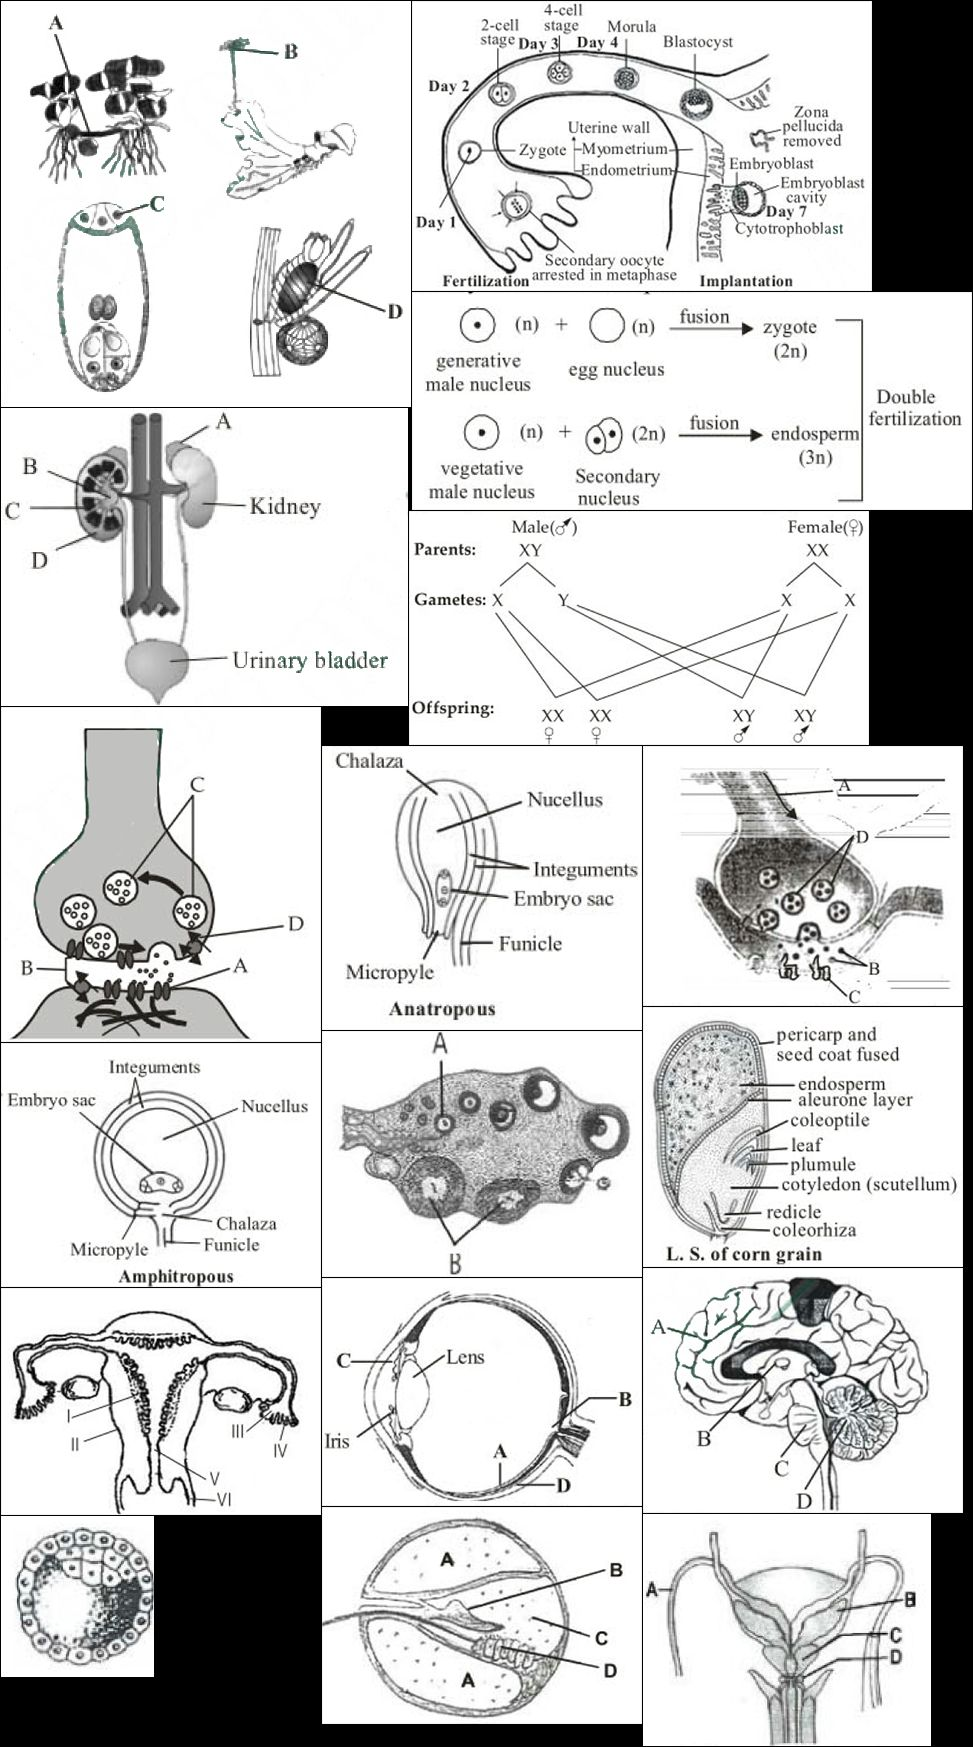
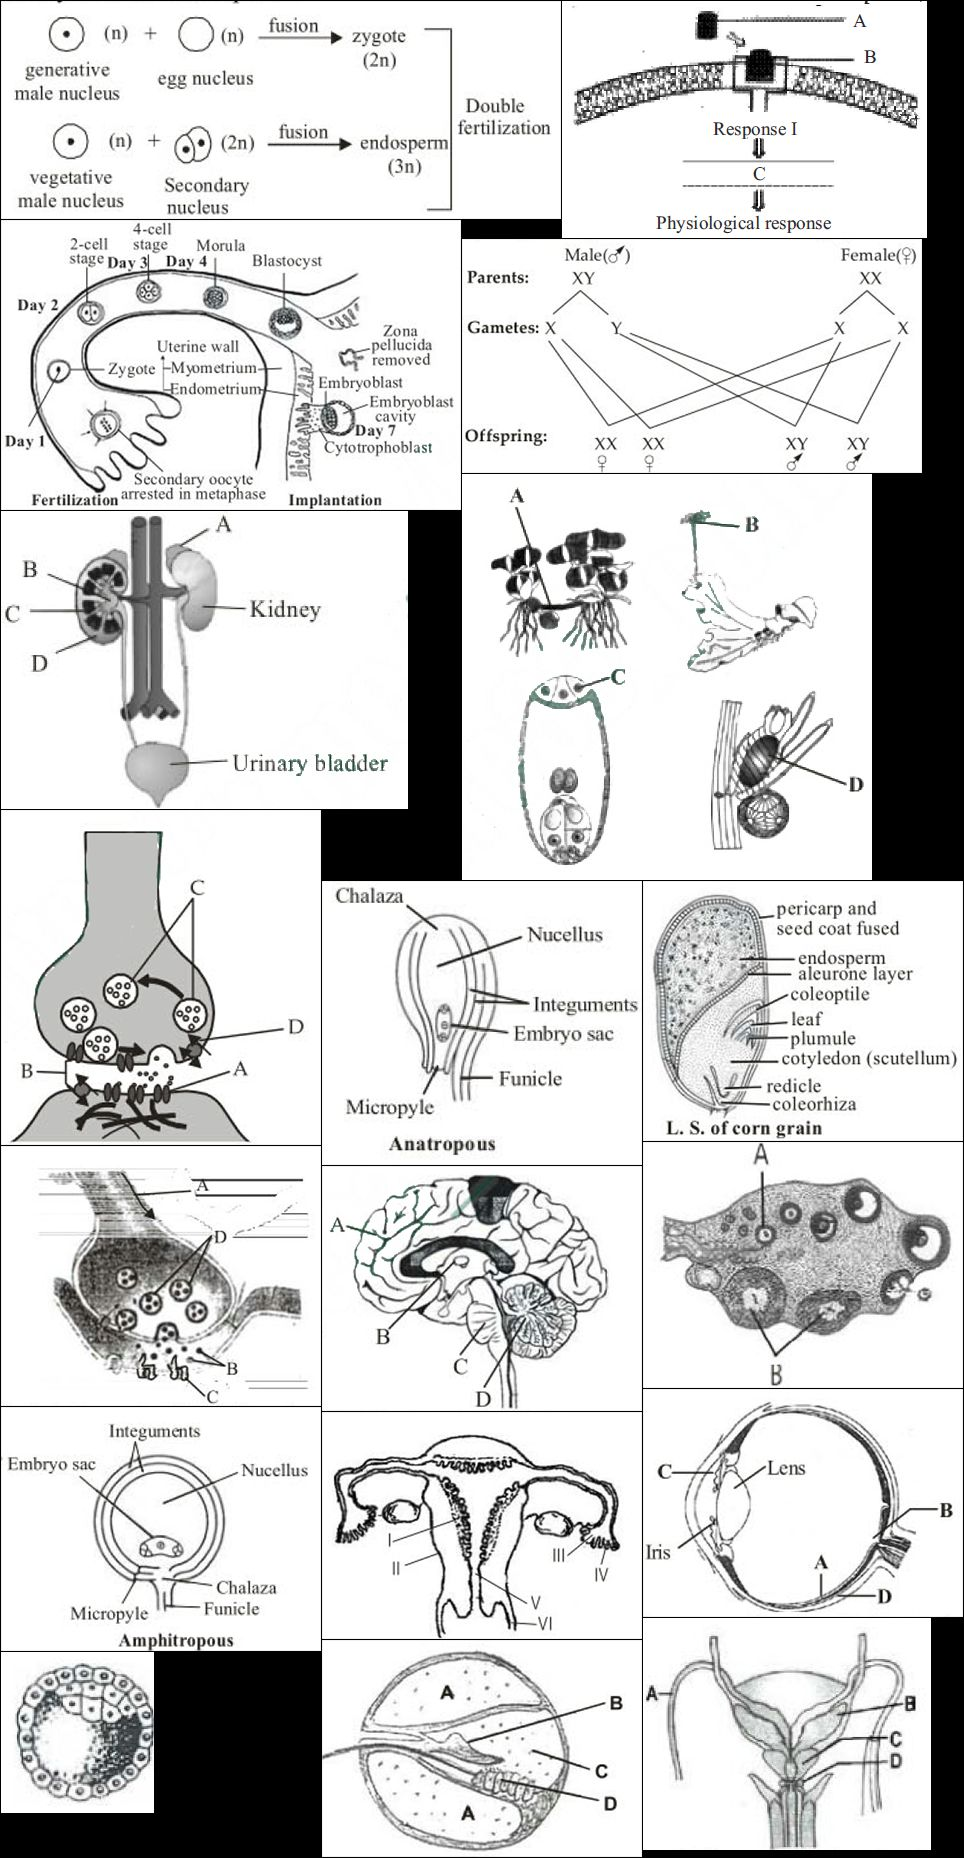
Fixed.

diff --git a/img/medical/neet/bgchap/biology_ch_21_25.css b/img/medical/neet/bgchap/biology_ch_21_25.css
@@ -8,55 +8,58 @@ Responsive: <div class="yourspritesname"></div>
 
 
 .nt_bg_chem_coordin_14 {max-width:407px; max-height:298px; }
-.nt_bg_chem_coordin_14::after {content: '\00a0';display: inline-block; width:407px; height:298px; background-position: 0.17667844522968199% 28.15734989648033%;background-size: 239.06633906633905% 586.2416107382551%;background-image: url(biology_ch_21_25.jpg);padding: 0; }
+.nt_bg_chem_coordin_14::after {content: '\00a0';display: inline-block; width:407px; height:298px; background-position: 0.17953321364452424% 32.756410256410255%;background-size: 236.85503685503684% 623.489932885906%;background-image: url(biology_ch_21_25.jpg);padding: 0; }
 div.nt_bg_chem_coordin_14::after {max-width:407px; width:100%;height:0;padding: 0 0 73.21867321867322% 0;}
+.nt_bg_chem_coordin_2019_1 {max-width:365px; max-height:237px; }
+.nt_bg_chem_coordin_2019_1::after {content: '\00a0';display: inline-block; width:365px; height:237px; background-position: 93.82303839732889% 0.061690314620604564%;background-size: 264.1095890410959% 783.9662447257384%;background-image: url(biology_ch_21_25.jpg);padding: 0; }
+div.nt_bg_chem_coordin_2019_1::after {max-width:365px; width:100%;height:0;padding: 0 0 64.93150684931507% 0;}
 .nt_bg_human_repro_23 {max-width:320px; max-height:246px; }
-.nt_bg_human_repro_23::after {content: '\00a0';display: inline-block; width:320px; height:246px; background-position: 49.31087289433384% 68.68754163890739%;background-size: 304.0625% 710.1626016260162%;background-image: url(biology_ch_21_25.jpg);padding: 0; }
+.nt_bg_human_repro_23::after {content: '\00a0';display: inline-block; width:320px; height:246px; background-position: 99.84472049689441% 70.84367245657569%;background-size: 301.25% 755.2845528455284%;background-image: url(biology_ch_21_25.jpg);padding: 0; }
 div.nt_bg_human_repro_23::after {max-width:320px; width:100%;height:0;padding: 0 0 76.875% 0;}
 .nt_bg_human_repro_24_sol {max-width:460px; max-height:234px; }
-.nt_bg_human_repro_24_sol::after {content: '\00a0';display: inline-block; width:460px; height:234px; background-position: 79.72709551656921% 33.773959021810974%;background-size: 211.52173913043478% 746.5811965811965%;background-image: url(biology_ch_21_25.jpg);padding: 0; }
+.nt_bg_human_repro_24_sol::after {content: '\00a0';display: inline-block; width:460px; height:234px; background-position: 91.66666666666667% 14.716748768472906%;background-size: 209.56521739130434% 794.017094017094%;background-image: url(biology_ch_21_25.jpg);padding: 0; }
 div.nt_bg_human_repro_24_sol::after {max-width:460px; width:100%;height:0;padding: 0 0 50.869565217391305% 0;}
 .nt_bg_human_repro_30 {max-width:153px; max-height:161px; }
-.nt_bg_human_repro_30::after {content: '\00a0';display: inline-block; width:153px; height:161px; background-position: 0.12195121951219512% 95.58638083228247%;background-size: 635.9477124183006% 1085.0931677018634%;background-image: url(biology_ch_21_25.jpg);padding: 0; }
+.nt_bg_human_repro_30::after {content: '\00a0';display: inline-block; width:153px; height:161px; background-position: 0.12330456226880394% 97.34826163818504%;background-size: 630.0653594771242% 1154.0372670807453%;background-image: url(biology_ch_21_25.jpg);padding: 0; }
 div.nt_bg_human_repro_30::after {max-width:153px; width:100%;height:0;padding: 0 0 105.22875816993464% 0;}
 .nt_bg_human_repro_30_sol {max-width:460px; max-height:290px; }
-.nt_bg_human_repro_30_sol::after {content: '\00a0';display: inline-block; width:460px; height:290px; background-position: 80.31189083820662% 0.06863417982155114%;background-size: 211.52173913043478% 602.4137931034483%;background-image: url(biology_ch_21_25.jpg);padding: 0; }
+.nt_bg_human_repro_30_sol::after {content: '\00a0';display: inline-block; width:460px; height:290px; background-position: 0.1984126984126984% 14.03061224489796%;background-size: 209.56521739130434% 640.6896551724138%;background-image: url(biology_ch_21_25.jpg);padding: 0; }
 div.nt_bg_human_repro_30_sol::after {max-width:460px; width:100%;height:0;padding: 0 0 63.04347826086956% 0;}
 .nt_bg_human_repro_34 {max-width:320px; max-height:227px; }
-.nt_bg_human_repro_34::after {content: '\00a0';display: inline-block; width:320px; height:227px; background-position: 0.15313935681470137% 84.73684210526316%;background-size: 304.0625% 769.6035242290749%;background-image: url(biology_ch_21_25.jpg);padding: 0; }
+.nt_bg_human_repro_34::after {content: '\00a0';display: inline-block; width:320px; height:227px; background-position: 50% 86.57265481299817%;background-size: 301.25% 818.5022026431718%;background-image: url(biology_ch_21_25.jpg);padding: 0; }
 div.nt_bg_human_repro_34::after {max-width:320px; width:100%;height:0;padding: 0 0 70.9375% 0;}
 .nt_bg_human_repro_50 {max-width:288px; max-height:232px; }
-.nt_bg_human_repro_50::after {content: '\00a0';display: inline-block; width:288px; height:232px; background-position: 93.86861313868613% 99.93399339933994%;background-size: 337.84722222222223% 753.0172413793103%;background-image: url(biology_ch_21_25.jpg);padding: 0; }
+.nt_bg_human_repro_50::after {content: '\00a0';display: inline-block; width:288px; height:232px; background-position: 95.11834319526628% 99.5079950799508%;background-size: 334.72222222222223% 800.8620689655172%;background-image: url(biology_ch_21_25.jpg);padding: 0; }
 div.nt_bg_human_repro_50::after {max-width:288px; width:100%;height:0;padding: 0 0 80.55555555555556% 0;}
 .nt_bg_neural_control_12 {max-width:320px; max-height:228px; }
-.nt_bg_neural_control_12::after {content: '\00a0';display: inline-block; width:320px; height:228px; background-position: 49.31087289433384% 84.13429888084266%;background-size: 304.0625% 766.2280701754386%;background-image: url(biology_ch_21_25.jpg);padding: 0; }
+.nt_bg_neural_control_12::after {content: '\00a0';display: inline-block; width:320px; height:228px; background-position: 99.84472049689441% 85.21472392638037%;background-size: 301.25% 814.9122807017544%;background-image: url(biology_ch_21_25.jpg);padding: 0; }
 div.nt_bg_neural_control_12::after {max-width:320px; width:100%;height:0;padding: 0 0 71.25% 0;}
 .nt_bg_neural_control_14 {max-width:320px; max-height:335px; }
-.nt_bg_neural_control_14::after {content: '\00a0';display: inline-block; width:320px; height:335px; background-position: 0.15313935681470137% 50.07082152974504%;background-size: 304.0625% 521.4925373134329%;background-image: url(biology_ch_21_25.jpg);padding: 0; }
+.nt_bg_neural_control_14::after {content: '\00a0';display: inline-block; width:320px; height:335px; background-position: 0.15527950310559005% 53.184504267892315%;background-size: 301.25% 554.6268656716418%;background-image: url(biology_ch_21_25.jpg);padding: 0; }
 div.nt_bg_neural_control_14::after {max-width:320px; width:100%;height:0;padding: 0 0 104.6875% 0;}
 .nt_bg_neural_control_15 {max-width:320px; max-height:260px; }
-.nt_bg_neural_control_15::after {content: '\00a0';display: inline-block; width:320px; height:260px; background-position: 98.46860643185299% 50.16812373907196%;background-size: 304.0625% 671.9230769230769%;background-image: url(biology_ch_21_25.jpg);padding: 0; }
+.nt_bg_neural_control_15::after {content: '\00a0';display: inline-block; width:320px; height:260px; background-position: 0.15527950310559005% 71.71464330413016%;background-size: 301.25% 714.6153846153846%;background-image: url(biology_ch_21_25.jpg);padding: 0; }
 div.nt_bg_neural_control_15::after {max-width:320px; width:100%;height:0;padding: 0 0 81.25% 0;}
 .nt_bg_neural_control_16 {max-width:320px; max-height:245px; }
-.nt_bg_neural_control_16::after {content: '\00a0';display: inline-block; width:320px; height:245px; background-position: 98.46860643185299% 84.4207723035952%;background-size: 304.0625% 713.0612244897959%;background-image: url(biology_ch_21_25.jpg);padding: 0; }
+.nt_bg_neural_control_16::after {content: '\00a0';display: inline-block; width:320px; height:245px; background-position: 50% 72.28766274023559%;background-size: 301.25% 758.3673469387755%;background-image: url(biology_ch_21_25.jpg);padding: 0; }
 div.nt_bg_neural_control_16::after {max-width:320px; width:100%;height:0;padding: 0 0 76.5625% 0;}
 .nt_bg_neural_control_26 {max-width:320px; max-height:217px; }
-.nt_bg_neural_control_26::after {content: '\00a0';display: inline-block; width:320px; height:217px; background-position: 49.31087289433384% 98.49673202614379%;background-size: 304.0625% 805.0691244239631%;background-image: url(biology_ch_21_25.jpg);padding: 0; }
+.nt_bg_neural_control_26::after {content: '\00a0';display: inline-block; width:320px; height:217px; background-position: 50% 99.93906154783669%;background-size: 301.25% 856.221198156682%;background-image: url(biology_ch_21_25.jpg);padding: 0; }
 div.nt_bg_neural_control_26::after {max-width:320px; width:100%;height:0;padding: 0 0 67.8125% 0;}
 .nt_bg_sex_repro_plants_60 {max-width:410px; max-height:406px; }
-.nt_bg_sex_repro_plants_60::after {content: '\00a0';display: inline-block; width:410px; height:406px; background-position: 0.17761989342806395% 0.07457121551081283%;background-size: 237.3170731707317% 430.29556650246303%;background-image: url(biology_ch_21_25.jpg);padding: 0; }
+.nt_bg_sex_repro_plants_60::after {content: '\00a0';display: inline-block; width:410px; height:406px; background-position: 83.39350180505416% 32.64462809917355%;background-size: 235.1219512195122% 457.6354679802956%;background-image: url(biology_ch_21_25.jpg);padding: 0; }
 div.nt_bg_sex_repro_plants_60::after {max-width:410px; width:100%;height:0;padding: 0 0 99.02439024390245% 0;}
 .nt_bg_sex_repro_plants_71_sol {max-width:320px; max-height:260px; }
-.nt_bg_sex_repro_plants_71_sol::after {content: '\00a0';display: inline-block; width:320px; height:260px; background-position: 98.46860643185299% 67.72024209818426%;background-size: 304.0625% 671.9230769230769%;background-image: url(biology_ch_21_25.jpg);padding: 0; }
+.nt_bg_sex_repro_plants_71_sol::after {content: '\00a0';display: inline-block; width:320px; height:260px; background-position: 99.84472049689441% 55.13141426783479%;background-size: 301.25% 714.6153846153846%;background-image: url(biology_ch_21_25.jpg);padding: 0; }
 div.nt_bg_sex_repro_plants_71_sol::after {max-width:320px; width:100%;height:0;padding: 0 0 81.25% 0;}
 .nt_bg_sex_repro_plants_74_sol {max-width:320px; max-height:244px; }
-.nt_bg_sex_repro_plants_74_sol::after {content: '\00a0';display: inline-block; width:320px; height:244px; background-position: 0.15313935681470137% 69.39454424484364%;background-size: 304.0625% 715.983606557377%;background-image: url(biology_ch_21_25.jpg);padding: 0; }
+.nt_bg_sex_repro_plants_74_sol::after {content: '\00a0';display: inline-block; width:320px; height:244px; background-position: 0.15527950310559005% 87.17472118959108%;background-size: 301.25% 761.4754098360655%;background-image: url(biology_ch_21_25.jpg);padding: 0; }
 div.nt_bg_sex_repro_plants_74_sol::after {max-width:320px; width:100%;height:0;padding: 0 0 76.25% 0;}
 .nt_bg_sex_repro_plants_82_sol {max-width:320px; max-height:284px; }
-.nt_bg_sex_repro_plants_82_sol::after {content: '\00a0';display: inline-block; width:320px; height:284px; background-position: 49.31087289433384% 50.99111414900889%;background-size: 304.0625% 615.1408450704225%;background-image: url(biology_ch_21_25.jpg);padding: 0; }
+.nt_bg_sex_repro_plants_82_sol::after {content: '\00a0';display: inline-block; width:320px; height:284px; background-position: 50% 55.9720457433291%;background-size: 301.25% 654.2253521126761%;background-image: url(biology_ch_21_25.jpg);padding: 0; }
 div.nt_bg_sex_repro_plants_82_sol::after {max-width:320px; width:100%;height:0;padding: 0 0 88.75% 0;}
 .nt_bg_sex_repro_plants_86_sol {max-width:560px; max-height:218px; }
-.nt_bg_sex_repro_plants_86_sol::after {content: '\00a0';display: inline-block; width:560px; height:218px; background-position: 99.75786924939467% 19.097449313276652%;background-size: 173.75% 801.3761467889908%;background-image: url(biology_ch_21_25.jpg);padding: 0; }
+.nt_bg_sex_repro_plants_86_sol::after {content: '\00a0';display: inline-block; width:560px; height:218px; background-position: 0.24752475247524752% 0.06097560975609756%;background-size: 172.14285714285714% 852.2935779816514%;background-image: url(biology_ch_21_25.jpg);padding: 0; }
 div.nt_bg_sex_repro_plants_86_sol::after {max-width:560px; width:100%;height:0;padding: 0 0 38.92857142857143% 0;}
 
-/* $TexturePacker:SmartUpdate:4ba427ee63dfcb7b6f4ce5b608c8bfd5:e48342b396de7762affb9ceb198cd197:e910e378c831d25de13d7dae4bcefe28$ */
+/* $TexturePacker:SmartUpdate:e4e632e03375ebafb00cad61e73665e6:68f8cb7282e8acc2e681a6ebee0590e6:e910e378c831d25de13d7dae4bcefe28$ */
